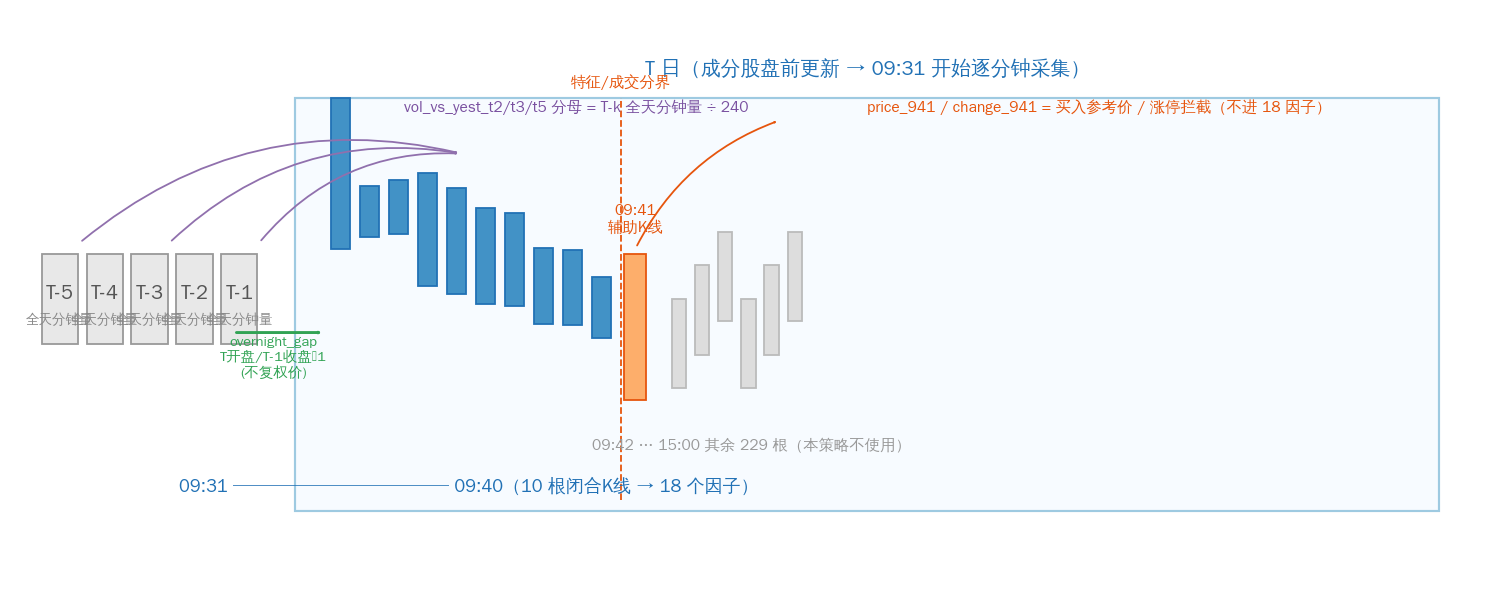
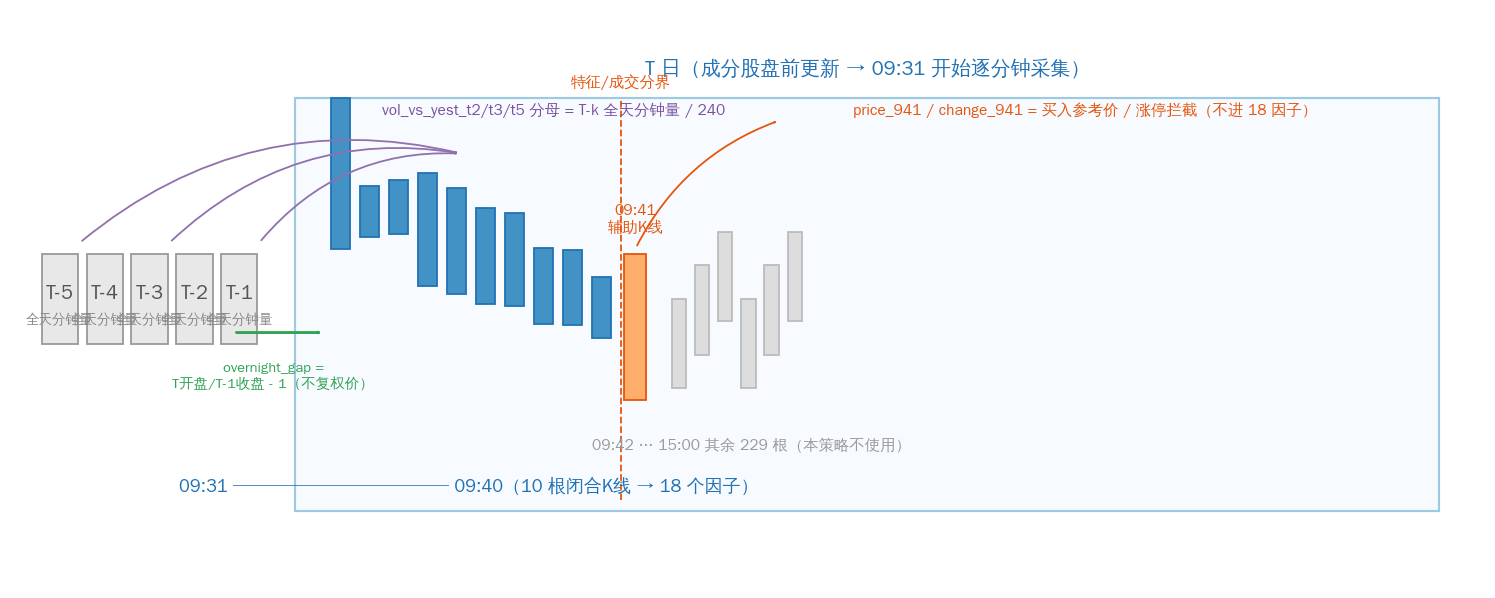
docs(factors): 补充因子示意图 — 时间窗口总览 + 六组因子真实数据示例
- window-overview.png：T-k 参照日 / 09:31-09:40 因子窗口 / 09:41 辅助K线 关系示意
- group-panels.png：六组因子 2×3 面板（SZ300619@2026-07-01 真实数据，
  数值由 compute_champion_factors 计算并与回放 features.parquet 核对一致）
- 同页收编并行添加的收盘位置因子图解（close_pos_windows.png）

Changed region(s): [[0.5538, 0.1505, 0.8923, 0.2107], [0.2462, 0.1505, 0.4923, 0.2107], [0.1231, 0.5418, 0.2462, 0.6622]]

diff --git a/docs/factors.md b/docs/factors.md
@@ -10,6 +10,16 @@ nav_order: 4
 09:31–09:40 的闭合 K 线上计算，使用 09:41 前已经知道的数据；`price_941` 和
 `change_941` 是交易辅助字段，不属于 18 个特征。
 
+## 因子时间窗口总览
+
+![因子时间窗口示意](assets/factors/window-overview.png)
+
+上图给出一天之内的数据使用关系：**左侧灰盒**是历史参照日（T-2/T-3/T-5 提供
+跨日量能的分母，T-1 提供隔夜跳空的基准收盘）；**中部蓝色**是 09:31–09:40 十根
+闭合K线——18 个因子唯一的计算窗口；**右侧橙色**是 09:41 辅助K线，只用于
+`price_941`（买入参考价）与 `change_941`（涨停拦截），不进入特征；当天 09:42
+之后的其余 229 根分钟线本策略不使用。
+
 ## 18 个现役因子
 
 | 分组 | 字段 | 含义 |
@@ -44,6 +54,24 @@ nav_order: 4
 - `overnight_gap` 用不复权价格计算，避免除权因子抵消真实跳空。
 - 任何分钟数据缺失或特征 NaN 都必须经过 Handler 的 `DropnaProcessor` 质量护栏，
   不允许让缺失的买入价回退到 T 日收盘价。
+
+## 六组因子图解（真实数据示例）
+
+![六组因子示例](assets/factors/group-panels.png)
+
+以 SZ300619 · 2026-07-01 为例（与[全流程导读](pipeline-walkthrough.md)的决策链
+同一样本），六个面板对应六组因子。图中数值由生产同款纯函数
+`compute_champion_factors` 现场计算，并已与影子回放产物 `features.parquet`
+逐值核对一致：
+
+- **A 启动动量**：末根收盘相对 1/3/5 根前收盘及当日开盘的涨幅；
+- **B 加速度**：后段收益减前段收益，衡量窗口内的二阶变化（该日后段强于前段）；
+- **C 收盘位置**：末根收盘在 1/3/5 根合并高低区间中的相对位置（详见下节图解）；
+- **D 量比**：末段均量与前段均量之比（对数轴），开盘首根巨量后量能快速衰减；
+- **E 跨日量能**：开盘 10 分钟总量达历史全天分钟均量的 24–90 倍，高贝塔股
+  开盘放量特征极其显著，这也是模型中重要性第一的因子组；
+- **F 隔夜跳空与成交辅助**：不复权口径的 T-1 收盘 → T 开盘跳空，以及
+  `change_941` 辅助字段的取值来源。
 
 ## 收盘位置因子图解
 
